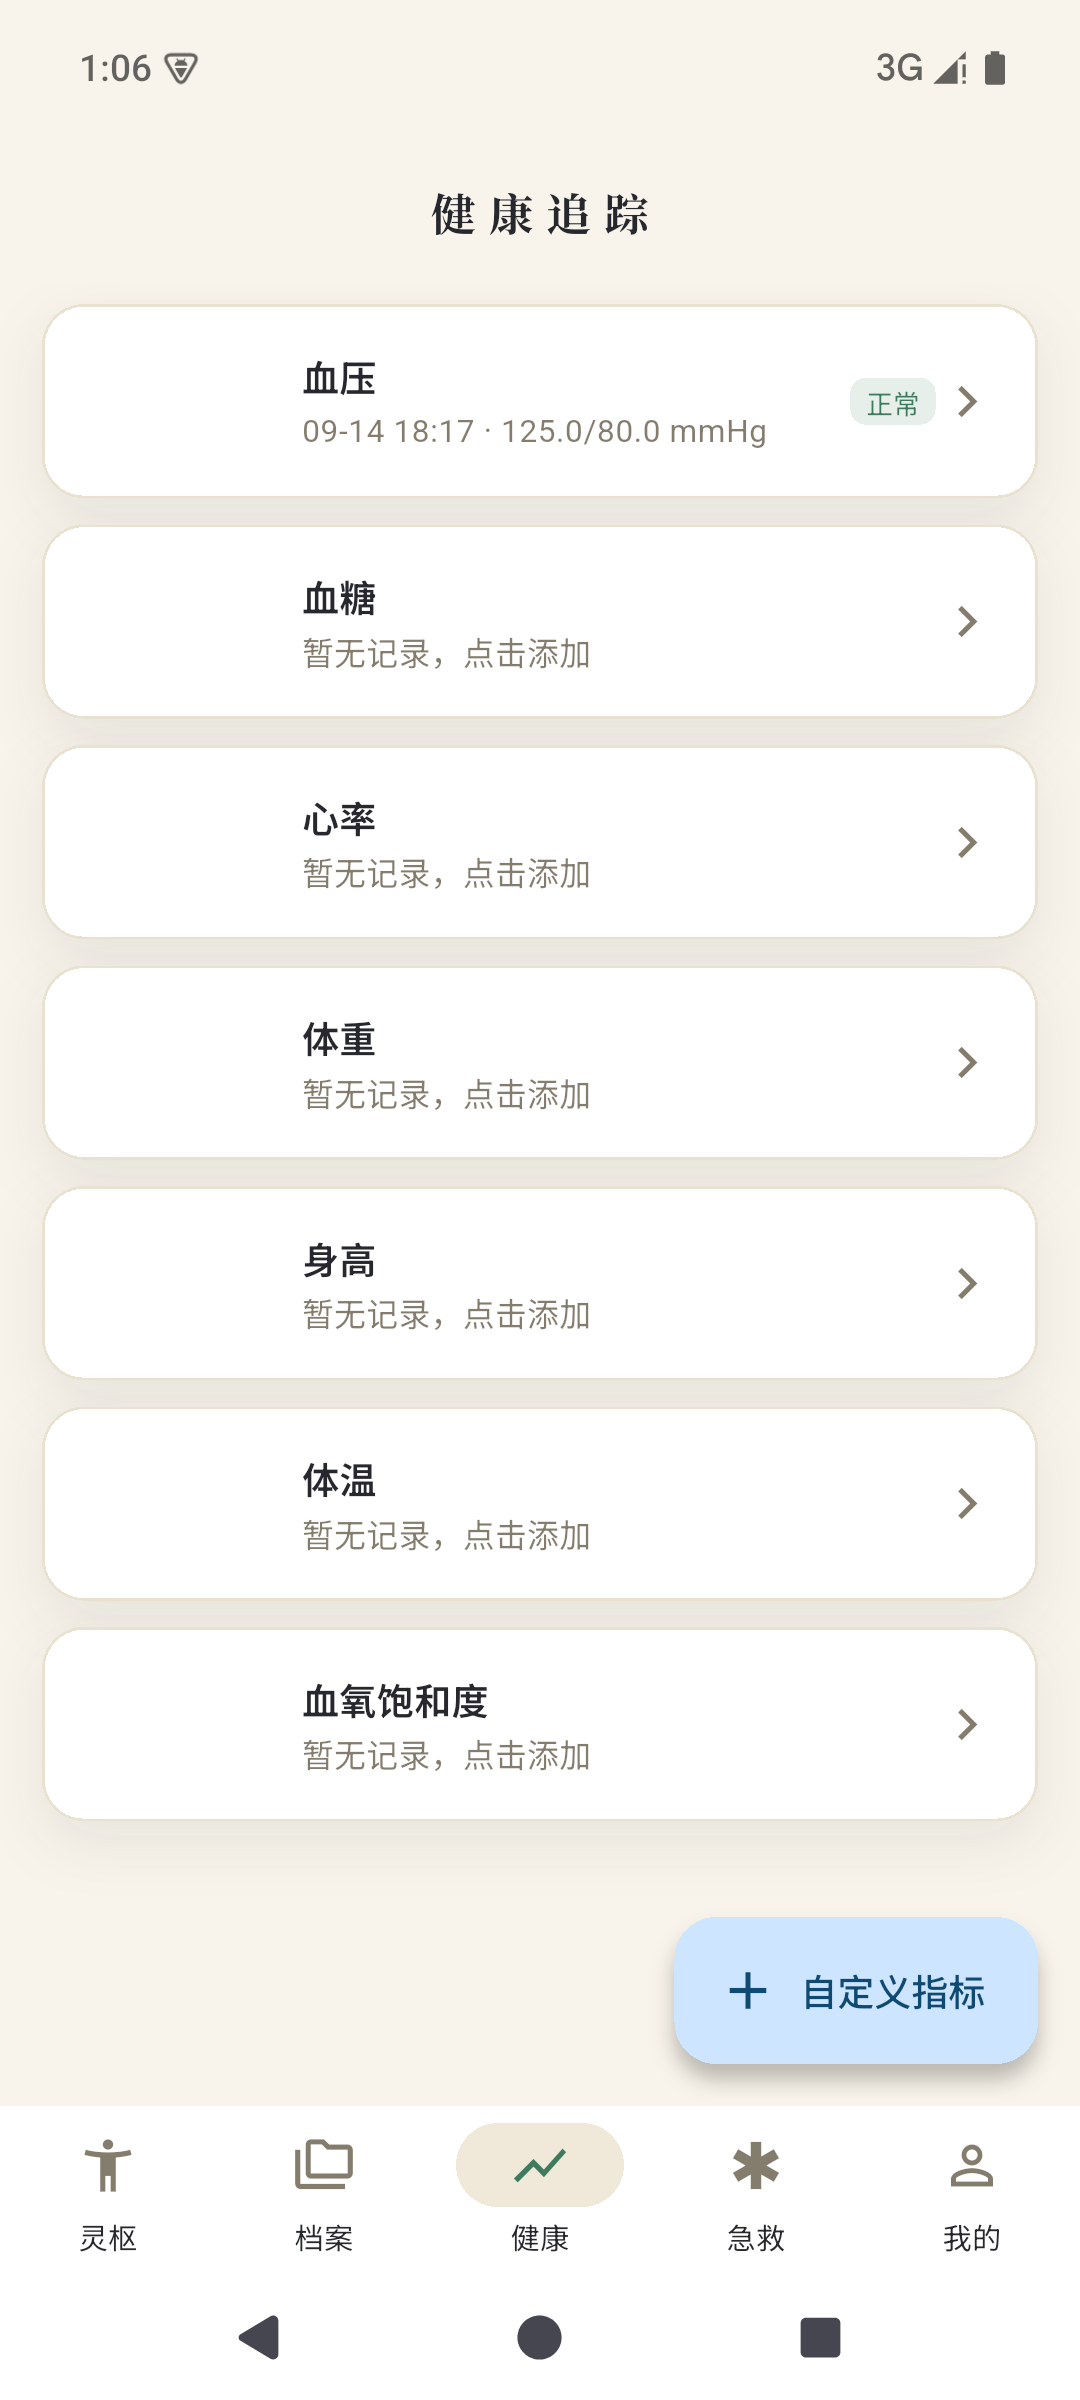
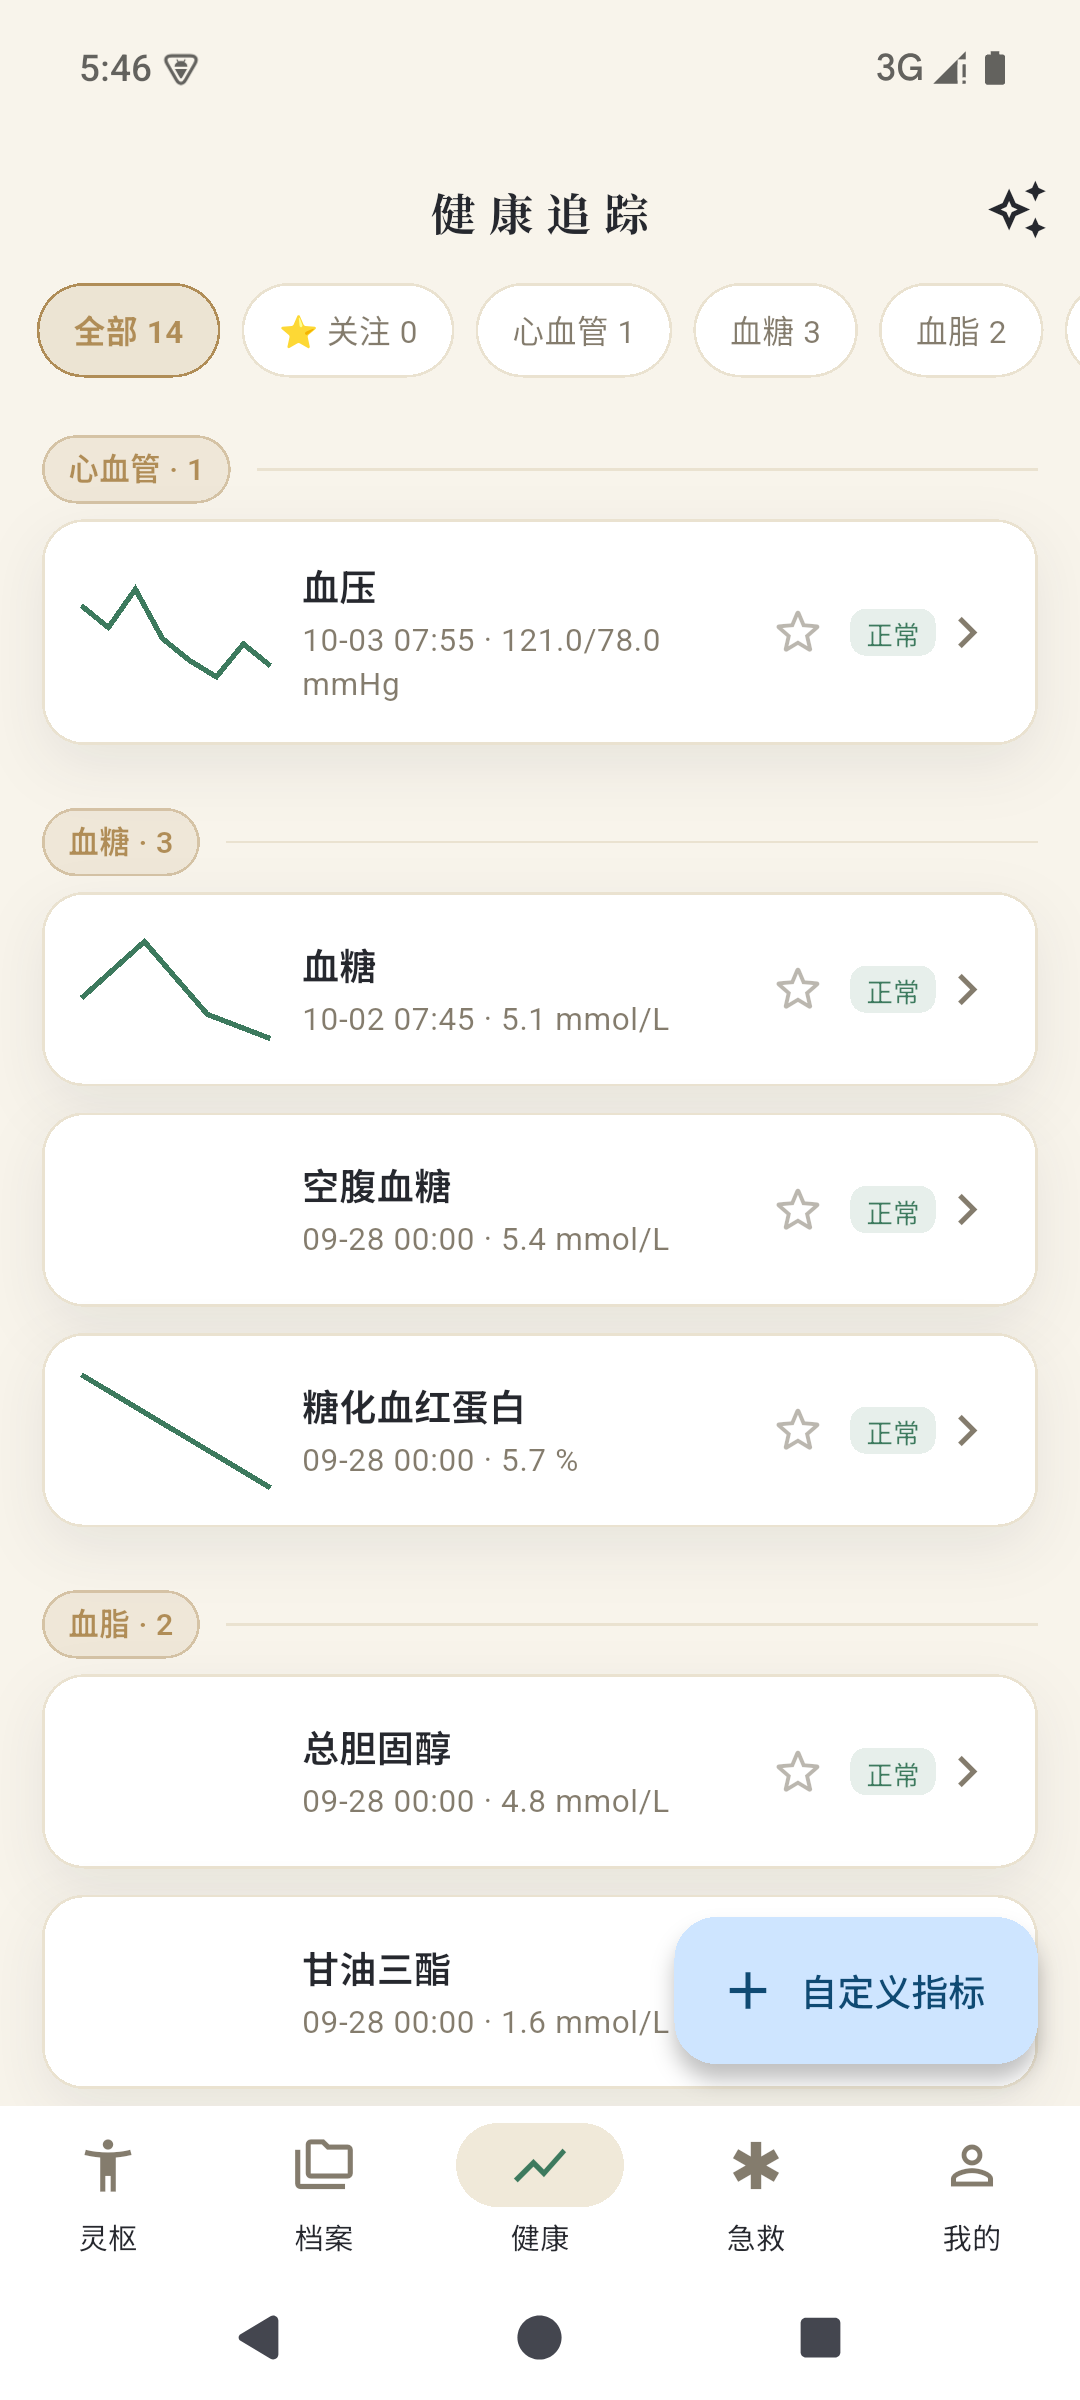
docs: README 截图全部更新至 v0.1.36 实机截图
- 首页：新增「今日一味」中药知识卡（泽兰）与农历日期卡
- 穴位：改为肺经筛选高亮视图 + 内关详情（定位/功效/主治/灵枢原文）
- 档案：AI 识别归档详情 + 双月时间线分组
- 指标：AI 归类分组速览 + 血压趋势（跨三周真实日期）
- 其余：急救列表/CPR、用药打卡、体质辨识 同步重拍
- 穴位详情改名 06_穴位详情_内关，新增 04_挂图_肺经筛选

diff --git a/README.md b/README.md
@@ -34,8 +34,8 @@
 
 | | |
 | :---: | :---: |
-| <img src="lingshu/screenshots/04_穴位选中_手三里.png" width="280" alt="穴位选中"/> | <img src="lingshu/screenshots/06_穴位详情_天宗_SI11_灵枢原文.png" width="280" alt="穴位详情"/> |
-| 点亮穴位，查看定位与主治 | 穴位详情：拼音 · 归经 · 《灵枢》原文 |
+| <img src="lingshu/screenshots/04_挂图_肺经筛选.png" width="280" alt="经络筛选高亮"/> | <img src="lingshu/screenshots/06_穴位详情_内关.png" width="280" alt="穴位详情"/> |
+| 按经络筛选，循行线高亮 | 穴位详情：拼音 · 归经 · 主治 · 《灵枢》原文 |
 
 ### 📁 健康档案库 · 拍照即入库
 
@@ -44,7 +44,7 @@
 | | |
 | :---: | :---: |
 | <img src="lingshu/screenshots/10_档案详情_拍照入库.png" width="280" alt="档案详情"/> | <img src="lingshu/screenshots/11_档案库_时间线分组.png" width="280" alt="档案时间线"/> |
-| 原始报告与提取指标同屏核对 | 时间线分组，一屏纵览全家检查史 |
+| AI 识别归档：摘要与原件同屏 | 时间线分组，一屏纵览检查史 |
 
 ### 📈 指标追踪 · 趋势看得见
 
@@ -53,7 +53,7 @@
 | | |
 | :---: | :---: |
 | <img src="lingshu/screenshots/13_血压趋势图.png" width="280" alt="血压趋势"/> | <img src="lingshu/screenshots/12_健康指标列表.png" width="280" alt="指标列表"/> |
-| 参考区间带 + 异常点高亮 | 指标分类速览 |
+| 参考区间带 + 异常点高亮 | ✦ AI 归类后的指标分组速览 |
 
 ### 🗄 家庭小药箱 · 会提醒，还会找药
 
